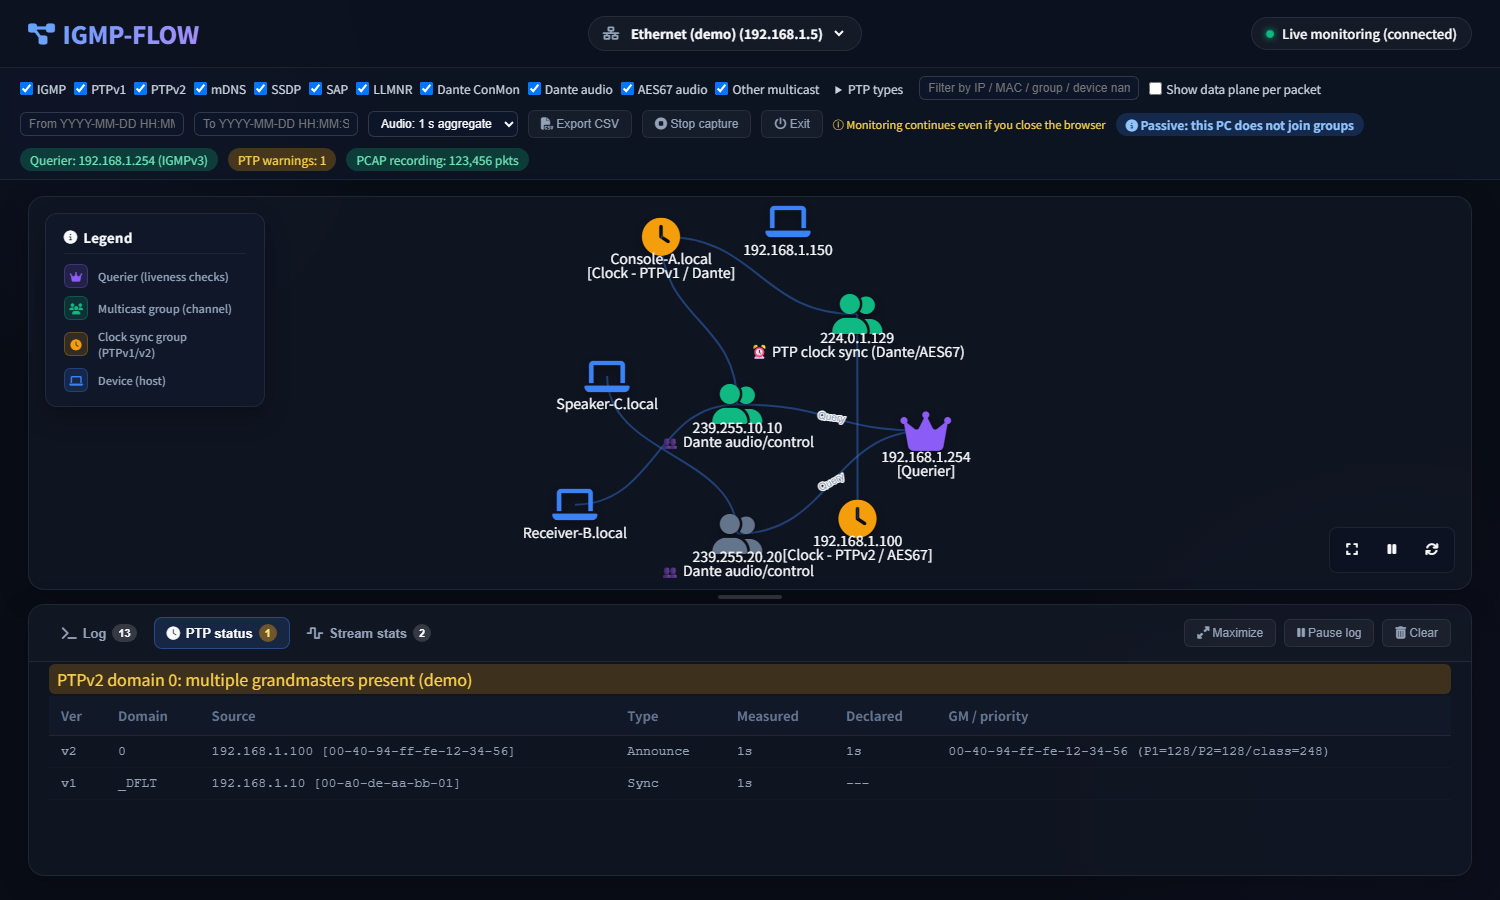
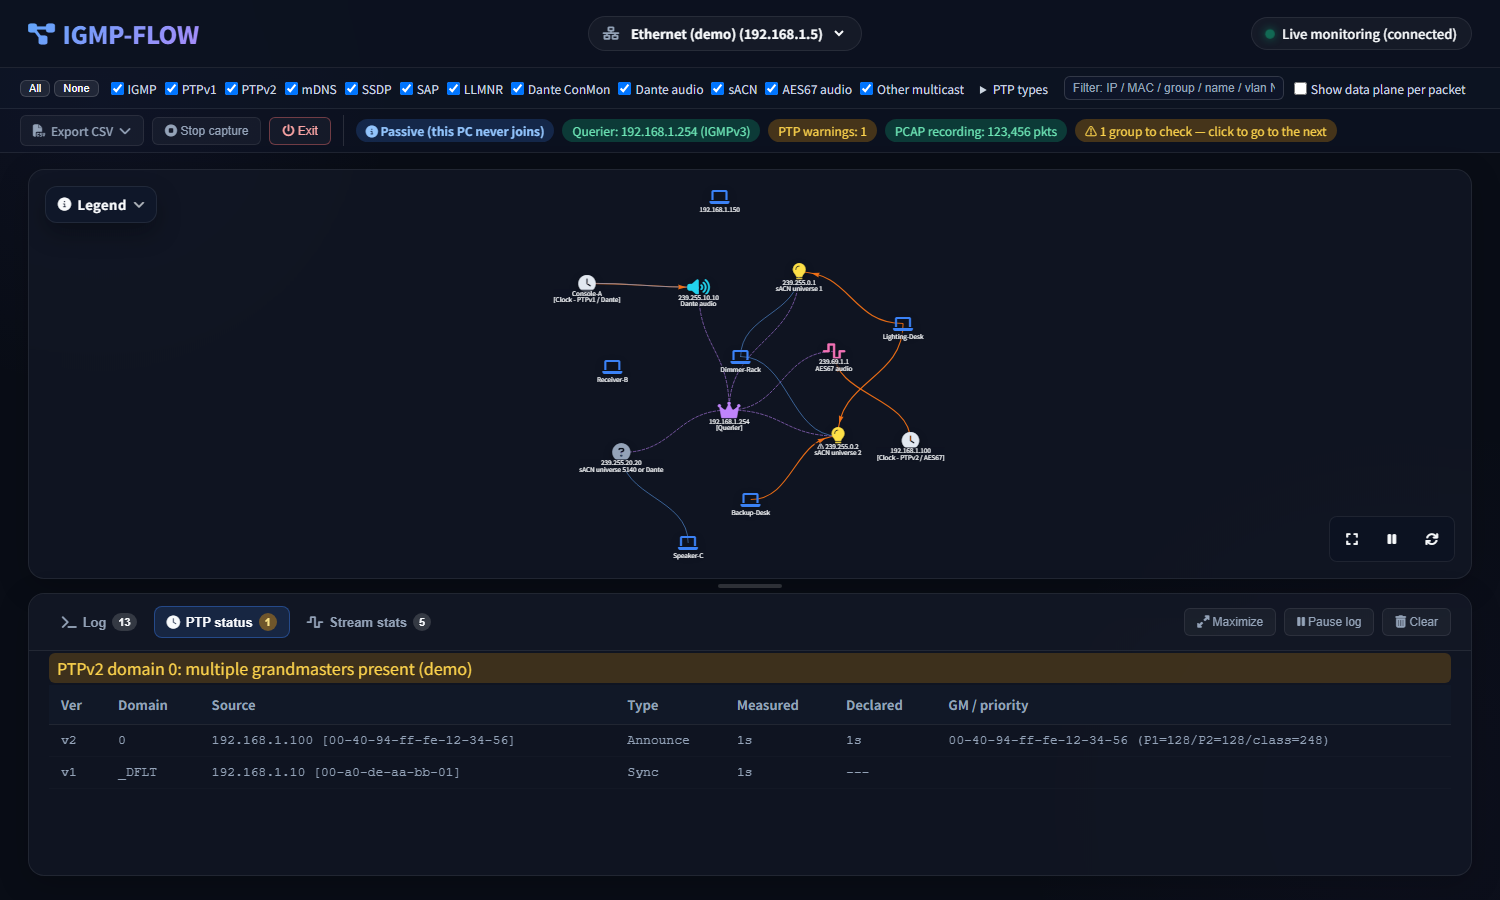
chore: bump version to 0.3.0, show sACN and senders in the demo, refresh screenshots

diff --git a/scripts/demo_simulator.py b/scripts/demo_simulator.py
@@ -2,8 +2,9 @@
 
 Try the UI without any network hardware, Npcap or administrator rights. The simulator starts the same local UI server and
 WebSocket server as the real app, opens the page in your browser, and replays a scenario in a loop: a querier appears,
-Dante/AES67 devices join and leave groups, PTPv1/PTPv2 clocks show up, audio streams are reported as 1-second statistics,
-and a PTP warning appears. Nothing is captured and nothing is written to disk.
+Dante/AES67 devices join and leave groups, a lighting desk sends sACN (and a backup desk sends to one of the same universes,
+which the map marks with a warning), PTPv1/PTPv2 clocks show up, streams are reported as 1-second statistics, and a PTP
+warning appears. Nothing is captured and nothing is written to disk.
 
 Usage (from the project root):
     python scripts/demo_simulator.py
@@ -56,12 +57,25 @@ def scenario() -> List[Dict[str, Any]]:
                                    version=3, resolved_name="Receiver-B.local", sources=[], record_type="CHANGE_TO_EXCLUDE_MODE")},
         {"delay": 1.5, "event": ev("IGMP", "igmp_join", "Join", "192.168.1.30", "00:20:18:ee:ff:03", "239.255.20.20",
                                    version=2, resolved_name="Speaker-C.local")},
+        {"delay": 1.0, "event": ev("IGMP", "igmp_join", "Join", "192.168.1.41", "00:1d:c1:41:00:01", "239.255.0.1",
+                                   version=2, resolved_name="Dimmer-Rack.local")},
+        {"delay": 0.5, "event": ev("IGMP", "igmp_join", "Join", "192.168.1.41", "00:1d:c1:41:00:01", "239.255.0.2",
+                                   version=2, resolved_name="Dimmer-Rack.local")},
         {"delay": 1.0, "message": {"type": "flow_stats", "interval_s": 1.0, "flows": [
             {"proto": "Dante-Audio", "src_ip": "192.168.1.10", "src_mac": "00:a0:de:aa:bb:01", "group_ip": "239.255.10.10",
              "tag": "Dante audio stream", "packets": 4000, "bytes": 4_000_000, "pps": 4000.0, "bps": 32_000_000,
              "resolved_name": "Console-A.local"},
             {"proto": "AES67-Audio", "src_ip": "192.168.1.100", "src_mac": "00:40:94:12:34:56", "group_ip": "239.69.1.1",
-             "tag": "AES67 audio stream", "packets": 1000, "bytes": 500_000, "pps": 1000.0, "bps": 4_000_000}]}},
+             "tag": "AES67 audio stream", "packets": 1000, "bytes": 500_000, "pps": 1000.0, "bps": 4_000_000},
+            {"proto": "sACN", "src_ip": "192.168.1.40", "src_mac": "00:1d:c1:40:00:01", "group_ip": "239.255.0.1",
+             "tag": "sACN universe 1", "packets": 44, "bytes": 28_000, "pps": 44.0, "bps": 224_000,
+             "resolved_name": "Lighting-Desk.local"},
+            {"proto": "sACN", "src_ip": "192.168.1.40", "src_mac": "00:1d:c1:40:00:01", "group_ip": "239.255.0.2",
+             "tag": "sACN universe 2", "packets": 44, "bytes": 28_000, "pps": 44.0, "bps": 224_000,
+             "resolved_name": "Lighting-Desk.local"},
+            {"proto": "sACN", "src_ip": "192.168.1.42", "src_mac": "00:1d:c1:42:00:01", "group_ip": "239.255.0.2",
+             "tag": "sACN universe 2", "packets": 44, "bytes": 28_000, "pps": 44.0, "bps": 224_000,
+             "resolved_name": "Backup-Desk.local"}]}},
         {"delay": 1.5, "event": ev("PTP", "ptp_message", "PTP message", "192.168.1.100", "00:40:94:12:34:56", "224.0.1.129",
                                    version=2, filter_key="PTPv2", ptp_msg_type="Announce", domain="0",
                                    grandmaster_id="00-40-94-ff-fe-12-34-56", priority1=128, clock_class=248,
@@ -99,16 +113,31 @@ def main() -> int:
     webbrowser.open(url)
 
     stop = threading.Event()
+    last_flows: Dict[str, Any] = {}
+
+    def wait(seconds: float) -> None:
+        """待つ間も、直近のフロー統計を 1 秒ごとに送り続ける(実アプリと同じ間隔)。"""
+        end = time.time() + seconds
+        while True:
+            left = end - time.time()
+            if left <= 0:
+                return
+            time.sleep(min(1.0, left))
+            if last_flows:
+                server.broadcast(last_flows)
+
     try:
         while not stop.is_set():
             for step in scenario():
-                time.sleep(step["delay"])
+                wait(step["delay"])
                 if "event" in step:
                     server.send_event({**step["event"], "ts": NOW()})
                     print(f"[demo] {step['event']['proto']}: {step['event']['event']}")
                 else:
                     server.broadcast(step["message"])
-            time.sleep(5.0)
+                    if step["message"].get("type") == "flow_stats":
+                        last_flows = step["message"]
+            wait(5.0)
     except KeyboardInterrupt:
         print("\nStopping the demo.")
     finally:

diff --git a/backend/constants.py b/backend/constants.py
@@ -28,7 +28,7 @@ REPORT_VISIBILITY_GRACE_SECONDS: Final[int] = 30
 DEFAULT_LOG_DIR: Final[str] = data_dir("logs")
 
 # アプリのバージョン(リリース成果物の名前と --version 表示に使う。セマンティックバージョニング)
-APP_VERSION: Final[str] = "0.2.2"
+APP_VERSION: Final[str] = "0.3.0"
 
 # Npcap公式ダウンロードURL
 NPCAP_DOWNLOAD_URL: Final[str] = "https://nmap.org/npcap/"

diff --git a/docs/manual_JP.md b/docs/manual_JP.md
@@ -151,9 +151,9 @@ python -m backend.pcap_export <file.pcap> -o out.csv --proto IGMP --proto PTPv2 
 |---|---|
 | 起動時に「Npcap がインストールされていません」 | Npcap をインストール（1.2 節）して、再起動する |
 | NIC の一覧が空、または何も取得されない | 管理者として実行する。Npcap の導入を確認する。ミラーポートにつないだ NIC を選ぶ。スイッチ側のミラー設定を確認する |
-| 図がラベルの塊になって読めない | 0.2.2 以降に更新する。グループや機器が多いとまとめノードで表示する |
-| VLAN が複数あるネットワークで「Multiple queriers」と出る | 0.2.2 からは、同じ VLAN（タグが無ければ同じ /24）に 2 台以上いるときだけ出す。10 章を参照 |
-| 照明（sACN）のネットワークなのに「Dante」と表示される | 0.2.2 で修正。sACN と Dante を UDP ポートで見分ける。Join しか見えていないグループは「sACN universe N or Dante」と表示する |
+| 図がラベルの塊になって読めない | 0.3.0 以降に更新する。グループや機器が多いとまとめノードで表示する |
+| VLAN が複数あるネットワークで「Multiple queriers」と出る | 0.3.0 からは、同じ VLAN（タグが無ければ同じ /24）に 2 台以上いるときだけ出す。10 章を参照 |
+| 照明（sACN）のネットワークなのに「Dante」と表示される | 0.3.0 で修正。sACN と Dante を UDP ポートで見分ける。Join しか見えていないグループは「sACN universe N or Dante」と表示する |
 | グループが図に出ているのに灰色、または Stream stats に出ない | IGMP Snooping 環境でミラーではないポートなら正常。IGMP-FLOW は Join しないので、スイッチがこのポートへストリームを転送しない。ストリーム本体を見るにはミラー（SPAN）ポートを使う |
 | 「No Join/Leave seen」が表示される | PC が IGMP スヌーピング有効スイッチの通常ポートにつながっている。クエリアへのアップリンク（または機器のポート）を、この PC のポートへミラーする |
 | この PC 自身の通信しか見えない | そのポートがミラー（SPAN）ポートではない、または NIC が仮想アダプタ |

diff --git a/docs/manual_EN.md b/docs/manual_EN.md
@@ -161,9 +161,9 @@ Command line options of the app: `-i/--interface`, `--interactive`, `-p/--port`,
 |---|---|
 | "Npcap is not installed" at start | Install Npcap (section 1.2) and restart |
 | NIC list empty, or nothing is captured | Run as administrator; check Npcap is installed; select the NIC connected to the mirror port; confirm the mirror is configured on the switch |
-| The map is a dense ball of labels | Update to 0.2.2 or later: many groups and devices are then drawn as summary nodes |
-| "Multiple queriers" on a network with several VLANs | Since 0.2.2 this appears only for more than one querier in the same VLAN (or, without VLAN tags, the same /24). See section 10 |
-| A lighting (sACN) network shows "Dante" | Fixed in 0.2.2: sACN and Dante are told apart by UDP port. A group seen only by its Join shows "sACN universe N or Dante" |
+| The map is a dense ball of labels | Update to 0.3.0 or later: many groups and devices are then drawn as summary nodes |
+| "Multiple queriers" on a network with several VLANs | Since 0.3.0 this appears only for more than one querier in the same VLAN (or, without VLAN tags, the same /24). See section 10 |
+| A lighting (sACN) network shows "Dante" | Fixed in 0.3.0: sACN and Dante are told apart by UDP port. A group seen only by its Join shows "sACN universe N or Dante" |
 | A group is on the map but grey / missing from Stream stats | Normal on a non-mirror port with IGMP snooping: IGMP-FLOW does not join, so the switch does not forward the stream here. Use a mirror (SPAN) port to see the stream itself |
 | "No Join/Leave seen" chip | The PC is on a normal port of a snooping switch. Mirror the uplink to the querier (or the devices' ports) to this PC's port |
 | Only this PC's traffic is visible | The port is not a mirror (SPAN) port, or the NIC is a virtual adapter |
